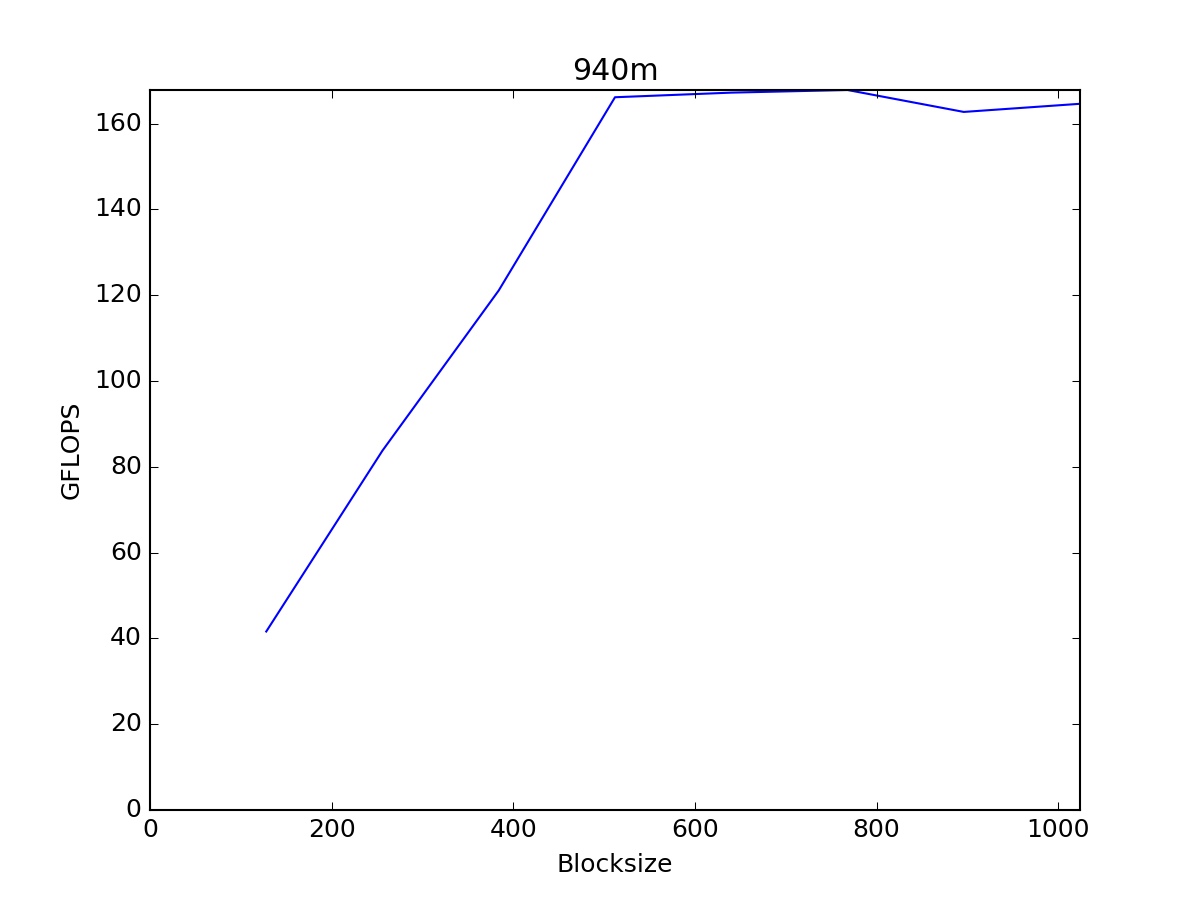
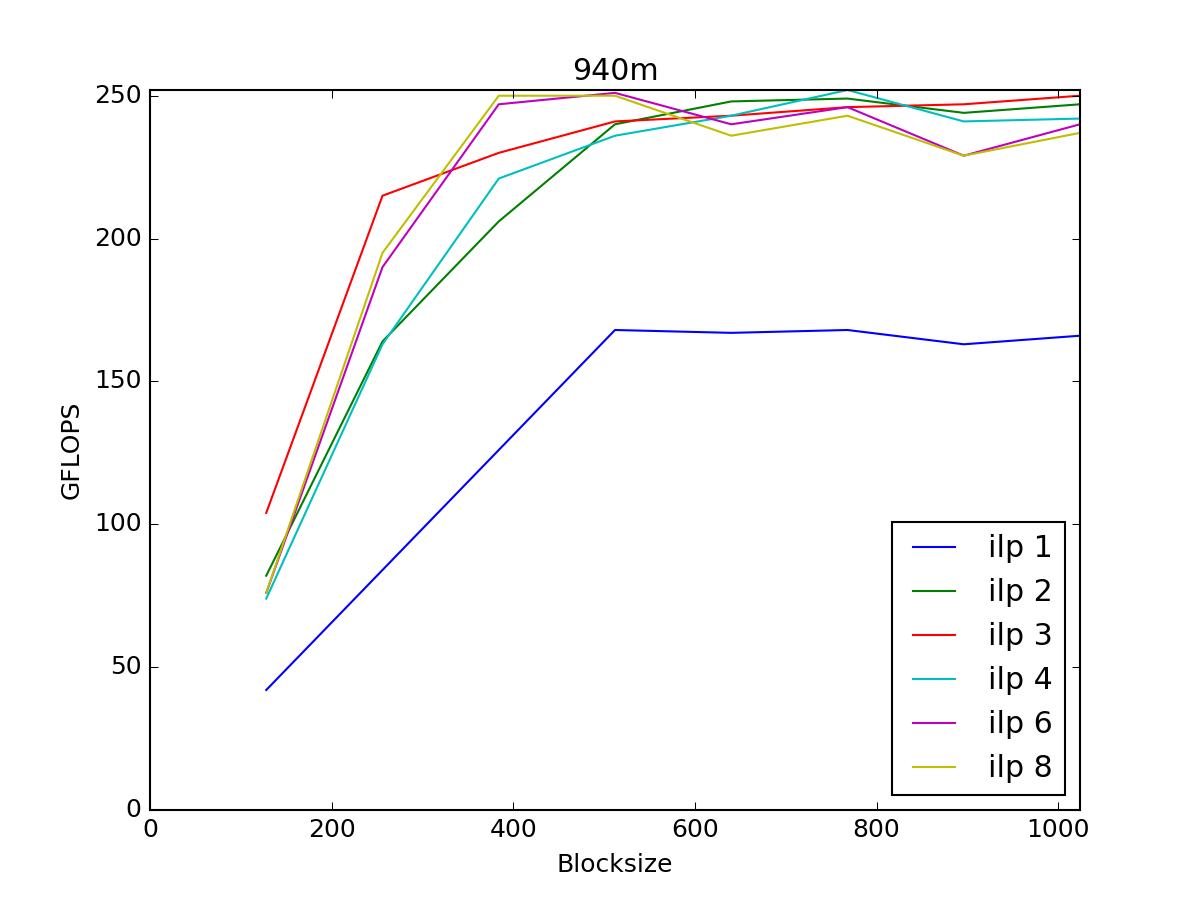
move all volkov1 graphs into one

diff --git a/gpuexperiments/volkov1_graphs.py b/gpuexperiments/volkov1_graphs.py
@@ -3,6 +3,7 @@ import argparse
 import string
 import numpy as np
 import os
+import array
 import matplotlib.pyplot as plt
 plt.rcdefaults()
 import matplotlib.pyplot as plt
@@ -28,18 +29,90 @@ f.close()
 
 X_list = []
 Y_list = []
+Y2_list = []
+Y3_list = []
+Y4_list = []
+Y6_list = []
+Y8_list = []
+x_values = set()
+
+x_values = set()
+for timeinfo in times:
+    x = int(timeinfo['name'].split('_')[-1])
+    x_values.add(x)
+x_list = sorted(list(x_values))
+pos_by_x = {}
+for i, x in enumerate(x_list):
+    pos_by_x[x] = i
+
+X_list = []
+X2_list = []
+X3_list = []
+X4_list = []
+X6_list = []
+X8_list = []
+Y_list = []
+Y2_list = []
+Y3_list = []
+Y4_list = []
+Y6_list = []
+Y8_list = []
 for timeinfo in times:
     name = timeinfo['name']
-    if not name.startswith('k1_fma_') or name.startswith('k1_fma_ilp'):
-        continue
-    X_list.append(int(name.split('fma_')[1].split(' ')[0]))
-    Y_list.append(timeinfo['flops'])
+    x = int(timeinfo['name'].split('_')[-1])
+    if name.startswith('k1_fma_') and not name.startswith('k1_fma_ilp'):
+        X_list.append(x)
+        Y_list.append(timeinfo['flops'])
+    elif name.startswith('k1_fma_ilp2'):
+        X2_list.append(x)
+        Y2_list.append(timeinfo['flops'])
+    elif name.startswith('k1_fma_ilp3'):
+        X3_list.append(x)
+        Y3_list.append(timeinfo['flops'])
+    elif name.startswith('k1_fma_ilp4'):
+        X4_list.append(x)
+        Y4_list.append(timeinfo['flops'])
+    elif name.startswith('k1_fma_ilp6'):
+        X6_list.append(x)
+        Y6_list.append(timeinfo['flops'])
+    elif name.startswith('k1_fma_ilp8'):
+        X8_list.append(x)
+        Y8_list.append(timeinfo['flops'])
 X = np.array(X_list)
+X2 = np.array(X2_list)
+X3 = np.array(X3_list)
+X4 = np.array(X4_list)
+X6 = np.array(X6_list)
+X8 = np.array(X8_list)
 Y = np.array(Y_list)
-plt.plot(X, Y)
-plt.axis([0, max(X), 0, max(Y)])
+Y2 = np.array(Y2_list)
+Y3 = np.array(Y3_list)
+Y4 = np.array(Y4_list)
+Y6 = np.array(Y6_list)
+Y8 = np.array(Y8_list)
+
+thismax = 0
+plt.plot(X, Y, label='ilp 1')
+thismax = max(thismax, max(Y))
+plt.plot(X2, Y2, label='ilp 2')
+thismax = max(thismax, max(Y2))
+plt.plot(X3, Y3, label='ilp 3')
+thismax = max(thismax, max(Y3))
+if len(Y4_list) > 0:
+    plt.plot(X4, Y4, label='ilp 4')
+    thismax = max(thismax, max(Y4))
+if len(Y6_list) > 0:
+    plt.plot(X6, Y6, label='ilp 6')
+    thismax = max(thismax, max(Y6))
+if len(Y8_list) > 0:
+    plt.plot(X8, Y8, label='ilp 8')
+    thismax = max(thismax, max(Y8))
+
+#plt.axis([0, max(X), 0, max(Y)])
+plt.axis([0, max(X), 0, thismax])
 plt.title(deviceNameSimple)
 plt.xlabel('Blocksize')
 plt.ylabel('GFLOPS')
+legend = plt.legend(loc='lower right') # fontsize='x-large')
 plt.savefig('/tmp/volkov1_%s.png' % deviceNameSimple, dpi=150)
 

diff --git a/gpuexperiments/volkov1.py b/gpuexperiments/volkov1.py
@@ -13,6 +13,7 @@ from os.path import join
 from gpuexperiments.callkernel import call_cl_kernel
 #import gpuexperiments.cpu_check
 from gpuexperiments.timecheck import inittime, timecheck
+import lib_clgpuexp
 from lib_clgpuexp import clearComputeCache, getPtx, timeKernel, buildKernel, initClGpu
 
 
@@ -68,9 +69,12 @@ deviceNameSimple = deviceName.replace('GeForce', '').strip().replace(' ', '').lo
 
 experiments = [
     #{'name': 'k1_nofma_{block}', 'code': code_template, 'options': '', 'template_args': {'fma': False, 'ilp': 1}},
-    #{'name': 'k1_fma_{block}', 'code': code_template, 'options': '', 'template_args': {'fma': True, 'ilp': 1}},
-    #{'name': 'k1_fma_ilp2_{block}', 'code': code_template, 'options': '', 'template_args': {'fma': True, 'ilp': 2}},
-    {'name': 'k1_fma_ilp3_{block}', 'code': code_template, 'options': '', 'template_args': {'fma': True, 'ilp': 3}}
+    {'name': 'k1_fma_{block}', 'code': code_template, 'options': '', 'template_args': {'fma': True, 'ilp': 1}},
+    {'name': 'k1_fma_ilp2_{block}', 'code': code_template, 'options': '', 'template_args': {'fma': True, 'ilp': 2}},
+    {'name': 'k1_fma_ilp3_{block}', 'code': code_template, 'options': '', 'template_args': {'fma': True, 'ilp': 3}},
+    {'name': 'k1_fma_ilp4_{block}', 'code': code_template, 'options': '', 'template_args': {'fma': True, 'ilp': 4}},
+    {'name': 'k1_fma_ilp6_{block}', 'code': code_template, 'options': '', 'template_args': {'fma': True, 'ilp': 6}},
+    {'name': 'k1_fma_ilp8_{block}', 'code': code_template, 'options': '', 'template_args': {'fma': True, 'ilp': 8}}
     #{'name': 'k1_nofma_fastmath_{block}', 'code': code_template, 'options': '-cl-fast-relaxed-math', 'template_args': {'fma': False}},
     #{'name': 'k1_fma_fastmath_{block}', 'code': code_template, 'options': '-cl-fast-relaxed-math', 'template_args': {'fma': True}}
 ]
@@ -95,7 +99,7 @@ for experiment in experiments:
         flops = its * block / (t/1000) * 2
         times.append({'name': name, 'time': t, 'flops': flops})
 
-with open('/tmp/volkov1_%s' % deviceSimpleName, 'w') as f:
+with open('/tmp/volkov1_%s.tsv' % deviceNameSimple, 'w') as f:
     line='name\t\t\ttot ms\tgflops'
     print(line)
     f.write(line + '\n')

diff --git a/README.md b/README.md
@@ -396,7 +396,7 @@ Reference: http://sbel.wisc.edu/Courses/ME964/Literature/talkVolkov10-GTC.pdf
 
 These experiments are carried out on 940M, using opencl, except where otherwise stated.
 
-### fma, ilp=1
+### maths operation fma, vary ilp
 
 [gpuexperiments/volkov1.py](gpuexperiments/volkov1.py)
 
@@ -408,157 +408,9 @@ These experiments are carried out on 940M, using opencl, except where otherwise 
 
 <img src="img/volkov1_titanx.png?raw=true" width="600" height="400" />
 
-### fma, ilp=2
+On 940M, with no ilp, we never actually hit the peak, using 1 block of maximum threads.  Seems like we hit some kind of other bottleneck, that is worked around by using ilp of 2 or more.
 
-940M:
-```
-k1_fma_ilp2_128 12.473583221435547 82.09349164723422
-k1_fma_ilp2_256 12.477636337280273 164.1336503678227
-k1_fma_ilp2_384 14.468669891357422 212.32082997726
-k1_fma_ilp2_512 17.87877082824707 229.09852357012363
-k1_fma_ilp2_640 20.66779136657715 247.72845386274759
-k1_fma_ilp2_768 24.718523025512695 248.55854023553923
-k1_fma_ilp2_896 30.41863441467285 235.6450293686562
-k1_fma_ilp2_1024 33.705711364746094 243.04486297145118
-```
-
-Suddenly, we our hitting theoretical flops, interestingly.  We get these at threads=640.  Compared to peak at ilp=1 was threads=768 (but we never really hit the peak, for some reason).
-
-Titan X:
-```
-kernel time(ms) GFLOPS
-k1_fma_ilp2_128 12.244939804077148 83.62102879910155
-k1_fma_ilp2_256 12.266874313354492 166.943010557348
-k1_fma_ilp2_384 13.495922088623047 227.60974550894193
-k1_fma_ilp2_512 16.16382598876953 253.38913316968885
-k1_fma_ilp2_640 20.134925842285156 254.26824812278312
-k1_fma_ilp2_768 24.16253089904785 254.26172488586843
-k1_fma_ilp2_896 28.171539306640625 254.42490628513363
-k1_fma_ilp2_1024 32.1955680847168 254.4286744823268
-```
-peak at threads=512
-
-## fma, ilp=3
-
-940M:
-```
-kernel time(ms) GFLOPS
-k1_fma_ilp3_128 9.108543395996094 112.42192691864727
-k1_fma_ilp3_256 9.561538696289062 214.19146698583683
-k1_fma_ilp3_384 13.108015060424805 234.3604264901144
-k1_fma_ilp3_512 17.731428146362305 231.00226141910153
-k1_fma_ilp3_640 20.359277725219727 251.48239879147002
-k1_fma_ilp3_768 24.341106414794922 252.4125195995847
-k1_fma_ilp3_896 28.972864151000977 247.40391431933574
-k1_fma_ilp3_1024 33.41960906982422 245.1255483834147
-```
-
-We hit the peak at threads=640, as for ilp=2.
-
-Titan X:
-```
-kernel time(ms) GFLOPS
-k1_fma_ilp3_128 9.255647659301758 110.6280729010859
-k1_fma_ilp3_256 9.250879287719727 221.37019242251776
-k1_fma_ilp3_384 12.419700622558594 247.33312704981893
-k1_fma_ilp3_512 16.224384307861328 252.44334566307455
-k1_fma_ilp3_640 20.10059356689453 254.70254412944536
-k1_fma_ilp3_768 24.056196212768555 255.3856282872807
-k1_fma_ilp3_896 25.90012550354004 276.7377033373965
-k1_fma_ilp3_1024 27.630329132080078 296.46681633224995
-```
-Peak at around threads=384
-
-### fma, ilp=4
-
-Titan X
-```
-kernel time(ms) GFLOPS
-k1_fma_ilp4_128 15.054941177368164 68.01318264459665
-k1_fma_ilp4_256 11.542797088623047 177.41531036861468
-k1_fma_ilp4_384 12.303590774536133 249.6672270958079
-k1_fma_ilp4_512 16.300678253173828 251.2618059437213
-k1_fma_ilp4_640 20.272493362426758 252.54280410760188
-k1_fma_ilp4_768 24.258136749267578 253.25963191239296
-k1_fma_ilp4_896 25.95353126525879 276.16824757848724
-k1_fma_ilp4_1024 27.693510055541992 295.79044677150745
-```
-Peak still at threads=384
-
-But, if reduce unroll from 256 to 128:
-```
-kernel time(ms) GFLOPS
-k1_fma_ilp4_128 6.186723709106445 165.50512228190127
-k1_fma_ilp4_256 8.220434188842773 249.11931425465102
-k1_fma_ilp4_384 12.155532836914062 252.70824678878014
-k1_fma_ilp4_512 16.148090362548828 253.6360500867005
-k1_fma_ilp4_640 20.14446258544922 254.14787305857692
-k1_fma_ilp4_768 24.261474609375 253.2247888026566
-k1_fma_ilp4_896 25.955915451049805 276.1428800890204
-k1_fma_ilp4_1024 27.69303321838379 295.79553988915006
-```
-Peak at 256.
-
-### fma, ilp=8
-
-Titan X, and concentrating on range up to 384 threads, 32 at a time:
-
-With unroll 64:
-```
-kernel time(ms) GFLOPS
-k1_fma_ilp8_32 3.6377906799316406 70.36787944181832
-k1_fma_ilp8_64 3.6275386810302734 141.13350043026807
-k1_fma_ilp8_96 3.621339797973633 212.06263174466994
-k1_fma_ilp8_128 3.6163330078125 283.1416414882025
-k1_fma_ilp8_160 7.024526596069336 182.2070231346543
-k1_fma_ilp8_192 7.032871246337891 218.38899678417465
-k1_fma_ilp8_224 6.975412368774414 256.88593265416307
-k1_fma_ilp8_256 7.031917572021484 291.2248198340717
-k1_fma_ilp8_288 10.41102409362793 221.2897139878942
-k1_fma_ilp8_320 10.415315628051758 245.7761484544498
-k1_fma_ilp8_352 10.425806045532227 270.0817340839238
-k1_fma_ilp8_384 10.4217529296875 294.74920512168666
-```
-
-Seems like non-linear, but peak is at 128.  Reducing unroll to 32 drops the flops back down a bit:
-```
-kernel time(ms) GFLOPS
-k1_fma_ilp8_32 4.360437393188477 58.70594917837301
-k1_fma_ilp8_64 4.347801208496094 117.75313714885544
-k1_fma_ilp8_96 4.351377487182617 176.4845385770529
-k1_fma_ilp8_128 4.347562789916992 235.5191893662219
-k1_fma_ilp8_160 8.20159912109375 156.05713728535815
-k1_fma_ilp8_192 8.214235305786133 186.9804843450377
-k1_fma_ilp8_224 8.311986923217773 215.57845657754203
-k1_fma_ilp8_256 8.227348327636719 248.9099581600241
-k1_fma_ilp8_288 12.206792831420898 188.73528664054723
-k1_fma_ilp8_320 12.185811996459961 210.06693363918998
-k1_fma_ilp8_352 12.176036834716797 231.2591374536108
-k1_fma_ilp8_384 12.198448181152344 251.81919424359253
-```
-Peak is still more or less at 128 though.
-
-Try ilp 6:
-
-### fma, ilp=6
-
-With unroll 64:
-```
-kernel time(ms) GFLOPS
-k1_fma_ilp6_32 4.242181777954102 60.34244391183409
-k1_fma_ilp6_64 4.234075546264648 120.9159417223114
-k1_fma_ilp6_96 4.230022430419922 181.54770113683867
-k1_fma_ilp6_128 4.229545593261719 242.09089166251724
-k1_fma_ilp6_160 8.107662200927734 157.86524503370936
-k1_fma_ilp6_192 8.10694694519043 189.4550077093075
-k1_fma_ilp6_224 8.103132247924805 221.13489662702938
-k1_fma_ilp6_256 8.083820343017578 253.3293469057427
-k1_fma_ilp6_288 12.10474967956543 190.32632685409735
-k1_fma_ilp6_320 12.092113494873047 211.69468522482433
-k1_fma_ilp6_352 12.088775634765625 232.92845041329883
-k1_fma_ilp6_384 12.089967727661133 254.0787089920757
-```
-Peak at 128.  Not quite the peak, but close.
+For Titan X, we get benefit of ilp all the way up to ilp==8.  For ilp 6 and 8, the unroll was reduced from 256 down to 64, in order to get the highest performance (just trying different unrolls empirically).  Using ilp 8, we get peak flops with a blocksize of only 128.  Note that the graph of flops versus blocksize is not contiguous, for ilp 6 and 8.
 
 ### global mem copy, ilp==1
 
